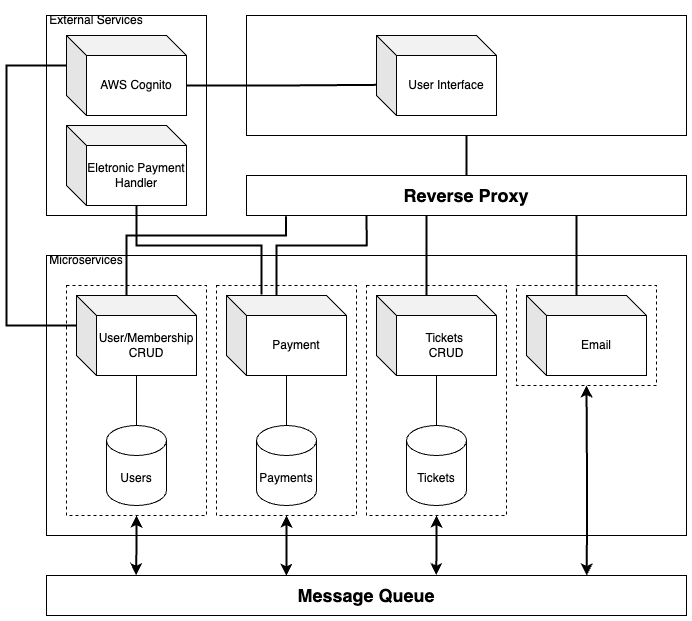
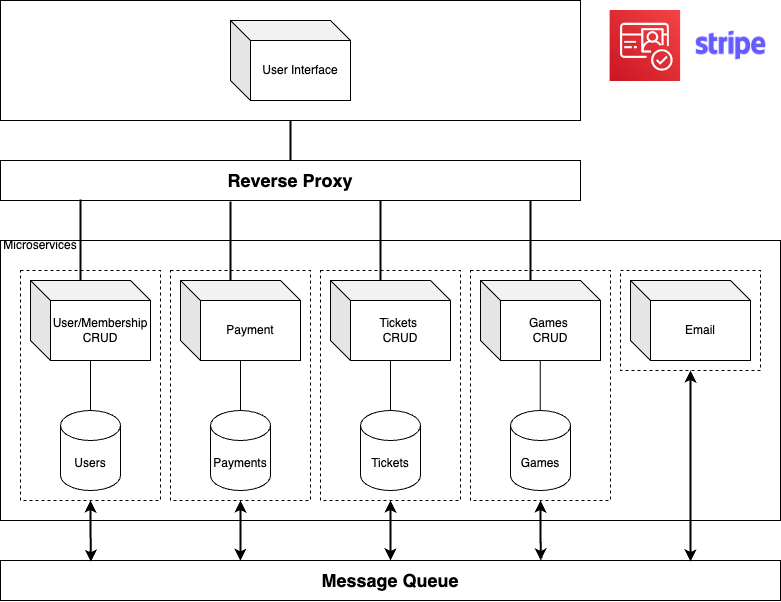
architecture change

diff --git a/docs/Architecture.md b/docs/Architecture.md
@@ -22,6 +22,10 @@ This microservice manages the processing of payments using an external service. 
 
 This microservice is responsible for managing the creation, sale, and distribution of tickets for games. It handles ticket booking, issuance, and validation.
 
+### Games management API
+
+This microservice manages the games available on the platform. It includes features such as game creation, scheduling, and results tracking. It also provides information about upcoming games, past games, and pavilions.
+
 ### Emails management API
 
 This microservice handles the sending of emails for various purposes, such as notifications, confirmations, and updates. It integrates with email delivery services to ensure that the platform can communicate with its users effectively.
@@ -29,10 +33,6 @@ This microservice handles the sending of emails for various purposes, such as no
 ### Identity Provider
 
 This microservice provides authentication and user identity management using AWS Cognito. It ensures secure access to the platform by handling user login, token generation, and session management.
-
-### System Logs and Metrics
-
-The system collects data about itself and its inner logic to provide insightful information to system administrators.
 
 ## Microservices Architecture
 
